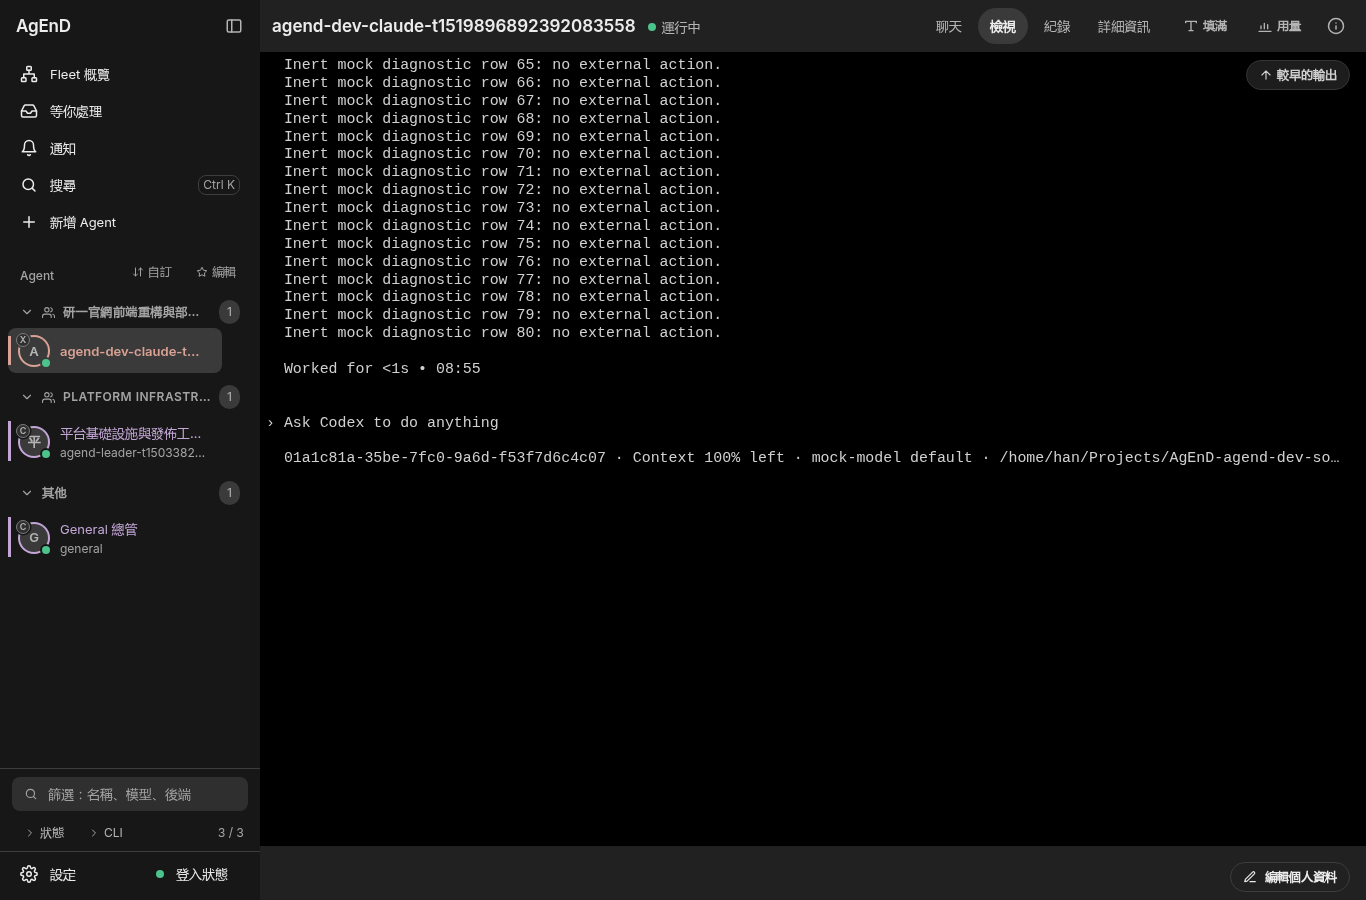
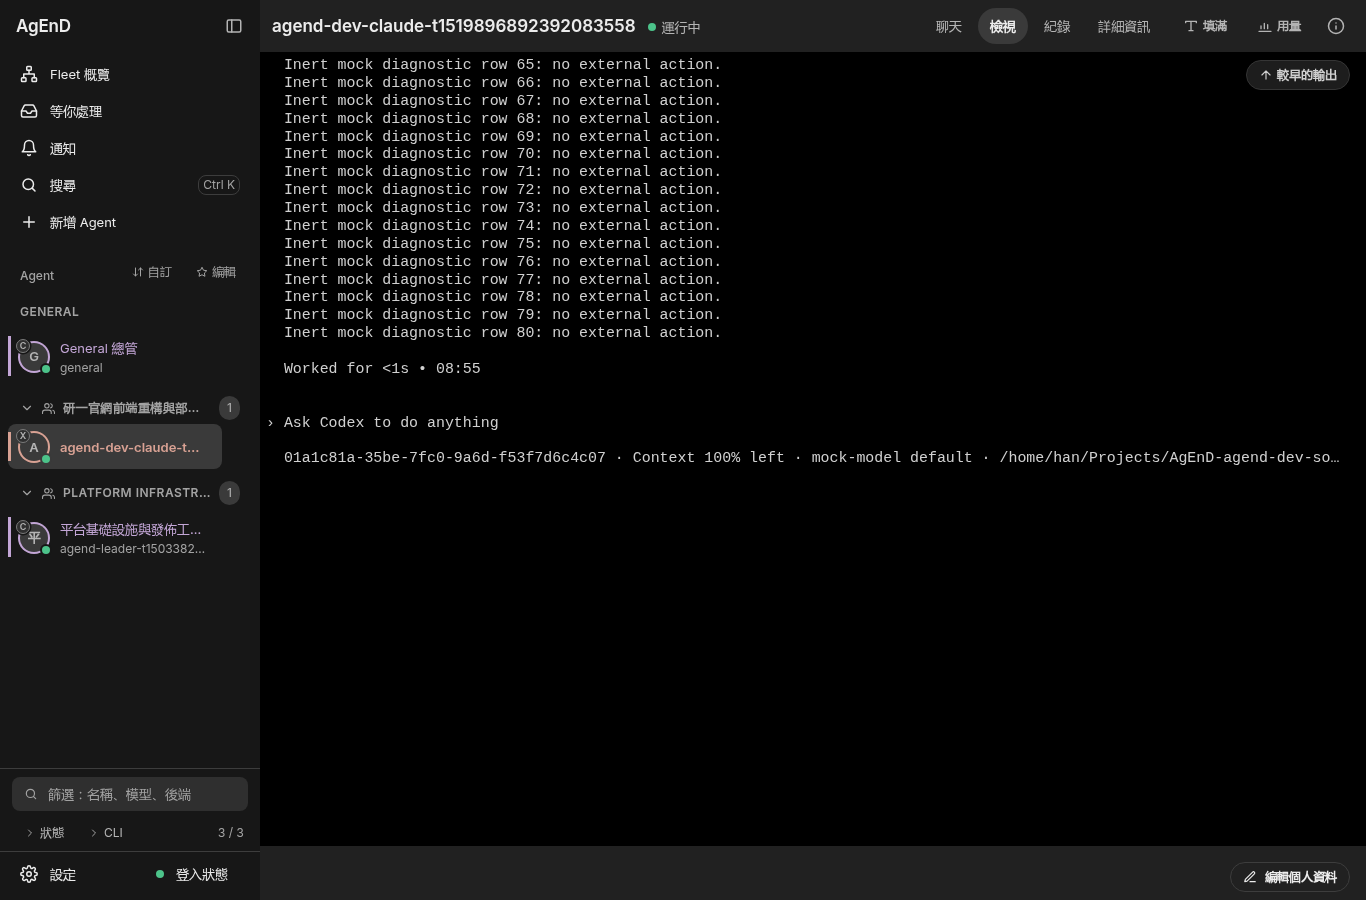
test(codex): record alpha proof and fallback retirement evidence

Changed region(s): [[0.0, 0.3422, 0.1845, 0.6222]]

diff --git a/tests/codex-pane-ownership-2301.test.ts b/tests/codex-pane-ownership-2301.test.ts
@@ -42,6 +42,7 @@ vi.mock("node:fs/promises", async (importOriginal) => {
 import { CodexBackend } from "../src/backend/codex.js";
 import { Daemon } from "../src/daemon.js";
 import { DeliveryOutbox } from "../src/delivery-outbox.js";
+import { TranscriptDeltaReader } from "../src/transcript-delta-reader.js";
 const roots: string[] = [];
 const daemons: any[] = [];
 const boxes: DeliveryOutbox[] = [];
@@ -49,6 +50,7 @@ const immediate = setImmediate;
 afterEach(async () => {
   for (const d of daemons.splice(0)) d.fenceDeliveryWritesForStop?.();
   await drainIO();
+  vi.restoreAllMocks();
   vi.useRealTimers();
   for (const box of boxes.splice(0)) box.close();
   for (const r of roots.splice(0)) rmSync(r, { recursive: true, force: true });
@@ -435,4 +437,87 @@ describe("#2301 proof continuations", () => {
         ?.sessionId,
     ).toBe(ID);
   });
+});
+
+
+describe("#2301 post-paste fallback keeps the session lease", () => {
+  it.each(["before read", "during empty read", "before settlement"] as const)(
+    "binding loss %s retires the fallback without another paste or poll",
+    async (phase) => {
+      const h = harness();
+      // Force the real post-paste path: pane submission proof failed, so only the
+      // bounded transcript fallback can settle this already-written delivery.
+      vi.spyOn(h.d, "confirmSubmitted").mockResolvedValue("unproven");
+      h.tmux.pasteBuffer.mockResolvedValue(true);
+      h.tmux.capturePane.mockImplementation(async () =>
+        ownedFrame(h.tmux.pasteBuffer.mock.calls.length
+          ? "after-fast.pane.txt" : "after-ready-120.pane.txt"),
+      );
+      const lose = () => h.tmux.capturePane.mockResolvedValue(
+        ownedFrame("after-fast.pane.txt").replace(ID, ID.replace(/^01/, "02")),
+      );
+      const append = () => appendFileSync(h.path, h.rows.slice(1).join("\n") + "\n");
+      const realLook = TranscriptDeltaReader.prototype.look;
+      const looks: string[] = [];
+      const look = vi.spyOn(TranscriptDeltaReader.prototype, "look")
+        .mockImplementation(async function (this: TranscriptDeltaReader) {
+          const result = await realLook.call(this);
+          looks.push(result);
+          if (phase === "during empty read") {
+            // The read observed no marker. Before its continuation, the pane
+            // switches, then the old rollout receives the exact pasted text.
+            lose();
+            append();
+          }
+          return result;
+        });
+      const realProve = h.d.proveDeliveryFromTranscript.bind(h.d);
+      let entered = false;
+      vi.spyOn(h.d, "proveDeliveryFromTranscript").mockImplementation(
+        async (...args: any[]) => {
+          const bound = args[1].ownedCodex;
+          expect(bound).toBeDefined();
+          if (phase === "before read") { lose(); append(); }
+          if (phase === "before settlement") {
+            append();
+            const validate = bound.validate.bind(bound);
+            let checks = 0;
+            bound.validate = async () => {
+              // Pre-read and post-read checks are still valid. The footer
+              // changes only at the final settlement continuation.
+              if (++checks === 3) lose();
+              return validate();
+            };
+          }
+          entered = true;
+          return realProve(...args);
+        },
+      );
+      h.run();
+      for (let i = 0; i < 1000 && !entered; i++) {
+        await drainIO();
+        await vi.advanceTimersByTimeAsync(50);
+      }
+      expect(entered).toBe(true);
+      // Let filesystem continuations finish while holding the fake clock. A
+      // retired post-read lease must not sleep until the next transcript poll.
+      await drainIO();
+      expect(h.state()).toBe("uncertain");
+      const evidence = (h.box as any).db.prepare(
+        "SELECT evidence FROM delivery_attempts WHERE delivery_id=?",
+      ).get(h.row.deliveryId)?.evidence;
+      expect(evidence).toBe(
+        "raw-paste-submit-proof:codex-session-binding-lost; not re-pasted",
+      );
+      expect(readFileSync(h.path, "utf8")).toContain(TEXT);
+      expect(look).toHaveBeenCalledTimes(phase === "before read" ? 0 : 1);
+      expect(looks).toEqual(phase === "before read" ? [] :
+        [phase === "during empty read" ? "no-match" : "user"]);
+      expect(h.tmux.pasteBuffer).toHaveBeenCalledOnce();
+      expect(h.tmux.sendSpecialKey).toHaveBeenCalledOnce();
+      await h.pump();
+      expect(h.state()).toBe("uncertain");
+      expect(h.tmux.pasteBuffer).toHaveBeenCalledOnce();
+    },
+  );
 });

diff --git a/docs/screenshots/codex-pane-owner-2301/README.md b/docs/screenshots/codex-pane-owner-2301/README.md
@@ -1,18 +1,18 @@
 # #2301 acceptance — exact pane/session paste proof
 
-Product source: `fe05648f0ce81986d4550a986fc57def80bd25f2`; the accompanying manifest binds the relevant product bytes and six PNGs. A later evidence-only commit does not change those bytes.
+Alpha product source: `6fd5edd59eb84dc17e05eeb5cc05888edcae82b9`; the accompanying manifest binds the relevant product bytes and six PNGs. A later evidence-only commit does not change those bytes.
 
 | Check | Result |
 |---|---|
-| Unmodified main `a3aefd9e4`, same fresh recorded0.167 stream | consumed raw text remains `uncertain`, about8.8s; one paste/Enter |
-| Candidate, exact pre-write session/file/offset | `delivered` during normal confirmation, about0.67s; one paste/Enter |
+| Unmodified alpha `fa5407a3d`, same fresh recorded0.167 stream | consumed raw text remains `uncertain`, about8.8s; one paste/Enter |
+| Candidate, exact pre-write session/file/offset | `delivered` during normal confirmation, about0.77s; one paste/Enter |
 | Switch UUID after Enter | `uncertain`; one paste/Enter, no resend |
 | Replace rollout inode after Enter | `uncertain`; one paste/Enter, no resend |
 | Narrow Context after Enter | `uncertain`; one paste/Enter, no resend |
 | Unit boundaries | metadata id/cwd/root, ambiguous files, partial EOF, symlinks, opened-descriptor replacement race, deadline/single-flight retirement, owner/window/launch/dialog/capture losses and no revival pinned |
-| Focused suites | 71 files;1466 pass,7 opt-in real-CLI tests skipped; no account execution |
+| Focused suites | 79 files;1477 pass,7 opt-in real-CLI tests skipped; no account execution |
 | Type checks | source and tests native TypeScript checks pass |
-| Semantic reversals |11/11 compile and fail assertions; direct-phase wiring additionally pinned with a fake-clock latency assertion |
+| Semantic reversals | main shared-helper11/11 evidence carried; alpha native-local-proof exclusion compiles and fails its assertion when reversed; restored control passes |
 | View | real shell/private tmux, zh-TW desktop+phone; six screenshots, no page overflow/CSP violation |
 | Cleanup | each replay's private tmux and scratch HOME removed; web fixture/probe pool/browser/listeners closed |
 
@@ -28,3 +28,11 @@ Desktop uses the normal120-column pane and View Fit. The complete UUID, Context 
 | Phone | ![Before](phone-zh-TW-before.png) | ![After](phone-zh-TW-after.png) | ![Narrow](phone-zh-TW-narrow.png) |
 
 Known limits: an unwritten/missing session, unsupported metadata or incomplete footer supplies no new transcript authority. Current cwd progress selection, resume policy and Codex `getSessionId() === null` stay unchanged. A lease is runtime-only, cannot be reconstructed after restart, and loss never revives. No native-Windows or real-account claim.
+
+## Alpha-specific preservation and rig configuration
+
+The native Runtime durable-checkpoint union and existing native readers remain intact. This local proof explicitly excludes nativePaneLifecycle (pinned by the alpha-only test and native-exclusion mutant). Native sequence/current checks and the Context-only Runtime footer are unchanged. The new footer reader is on CodexBackend, leaving alpha's shared detector class intact. The delta reader imports alpha's transcript-needles module. The manifest was rebuilt on alpha.
+
+The View recipe uses the production tmuxArgs and an explicit `/usr/bin/tmux`3.7b utility override inside its scratch HOME. The configured79-file run uses `AGEND_TMUX_BIN=/usr/bin/tmux`. Before configuration, two device-hint real-pane cases failed identically on this checkout and untouched alpha; they require a source-install bundled-tmux receipt or valid utility override. The configured run passes all1477 tests. No product timeout or guard was changed.
+
+The fallback regression is byte-identical to the main replacement test: a real bound lease switches after paste before the marker arrives, or before final settlement, and saves the binding-lost reason with one paste/Enter. The fake clock also pins prompt retirement after an empty read instead of another poll. Alpha scoped9-file control:135/135; test types clean. `fallback-review/` holds independent alpha reversals. Product hashes correspond to6fd5; the later manual-script, tests and evidence commit does not change product bytes.

diff --git a/scripts/manual/codex-pane-owner-2301/README.md b/scripts/manual/codex-pane-owner-2301/README.md
@@ -32,3 +32,5 @@ node --import tsx scripts/manual/codex-pane-owner-2301/view.mts
 ```
 
 Uses the existing smoke fixture, scratch HOME, private tmux and the recorded frames. The actual model-probe worker boundary returns null; no vendor CLI is launched. Desktop uses normal Fit; phone uses the existing Aa control (Fit → S) so the UUID/Context detail is readable. At S, lower-value model/cwd text is horizontally scrollable. Narrow captures replay at their actual 45-column width. This changes no UI code, CSS or persisted user preferences.
+
+Alpha source-rig note: the View script explicitly selects the local tmux3.7b utility and uses production `tmuxArgs` so its private bundled-socket flags match the application. For the source-based test suites use `AGEND_TMUX_BIN=/usr/bin/tmux` (requires tmux>=3.6). This is scratch rig configuration only.
